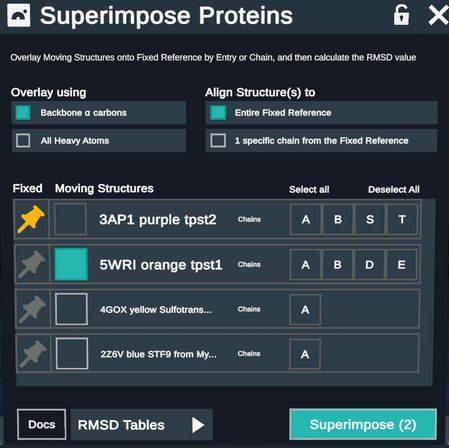
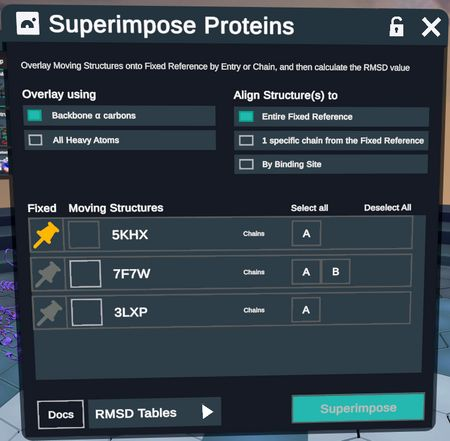
Update overlay method section

diff --git a/docs/plugins/superimpose.md b/docs/plugins/superimpose.md
@@ -14,14 +14,13 @@ A **Fixed Reference** structure is chosen, and **Moving Structures** are translo
 
 <vimg src="plugins-page/superimpose_menu.png" />
 
-1. In the upper left, Superimpose Proteins Using **Backbone α carbons** is the default selection, and will result in an overlay based on all paired alpha carbons between the two proteins.   Switching this selection to Superimpose Proteins Using **All Heavy Atoms** uses backbone atoms and side chain atoms (all protein atoms except for Hydrogen) for all paired residues.
+1. In the upper left, the user can select the Overlay Method.
+    -   **Backbone α carbons**: Overlay structures based on all paired alpha carbons between the two proteins.
+    -   **All Heavy Atoms**: Uses backbone atoms and side chain atoms (all protein atoms except for Hydrogen) for paired residues.
 
 2. In the upper right, there are 3 available alignment modes.
-
     -   **Align to Entire Fixed Reference**: Uses a sequence based alignment to superimpose entire proteins on top of each other.
-
     -   **1 specific Chain from the Fixed Reference**: Uses a sequence based  alignment to superimpose the moving structures onto a specified chain on the Fixed Reference.
-
     -   **By Binding Site**: The user selects a ligand on the fixed reference, and the surrounding binding site is aligned to the moving structures using a spatial based algorithm (See methodoligies for more details)
 
 3. A list of proteins in the workspace appears in the main panel.  In this panel, choose **Fixed Reference** and **Moving Structures**, and subselect a chain for each, if aligning by chain (see 4, below).
@@ -70,7 +69,7 @@ Binding site overlays use a spatial based approach. FPocket is used to identify 
 [Bio.pairwise2](https://biopython.org/docs/1.75/api/Bio.pairwise2.html#module-Bio.pairwise2) <br>
 [Bio.PDB.Superimposer](https://biopython.org/docs/1.75/api/Bio.PDB.Superimposer.html#module-Bio.PDB.Superimposer)
 
-#### Summary.
+#### Summary
 For each pairing of fixed structure and moving structure:
 - A global alignment is run on protein residue sequences using Bio.pairwise2
 
